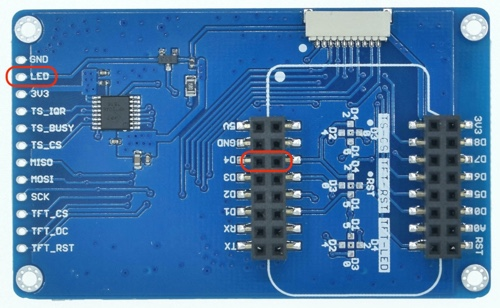
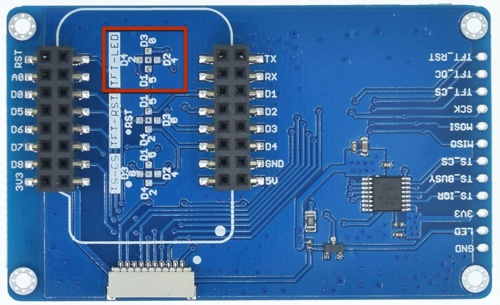
Update how dimming works

diff --git a/README.md b/README.md
@@ -104,20 +104,29 @@ This project requires an ESP8266 and a 320x240 touch screen display. It has been
 
 #### Configuring the `TFT_eSPI` library for your display
 
-`TFT_eSPI` needs to know how your display is connected to your ESP8266 including which pins are used for which signals. If you use the D1 Mini and D1 Mini TFT Shield, you can use the HW configurations supplied by this project (see below). If you use a different display, please refer to the [`TFT_eSPI`](https://github.com/Bodmer/TFT_eSPI) documentation. The library itself provides many configurations you can choose from, or you can create your own custom configuration.
+`TFT_eSPI` needs to know how your display is connected to your ESP8266 including which pins are used for which signals. If you use the D1 Mini and D1 Mini TFT Shield, you can use the HW configuration supplied by this project (see below). If you use a display such as [this one](https://www.amazon.com/gp/product/B073R7BH1B), you can use the second configuration mentioned below. This display has a single 14-pin header that can be conveniently attached to the D1 Mini using this [daughter board](https://oshpark.com/shared_projects/dopTFnBT).
 
-To configure for the D1 Mini TFT Shield, just copy the two files listed below into the `TFT_eSPI` directory:
+If you use a different display, please refer to the [`TFT_eSPI`](https://github.com/Bodmer/TFT_eSPI) documentation. The library itself provides many configurations you can choose from, or you can create your own custom configuration.
 
-* `MultiMon/resources/TFT_eSPI/User_Setup_Select.h` -> `library/TFT_eSPI` 
+To configure for the D1 Mini TFT Shield or the other display mentioned above, just copy the files listed below into the `TFT_eSPI` directory and uncomment the corresponding line in `User_Setup_Select.h`. By default it assumes the 2.4" TFT Shield.
+
+* `MultiMon/resources/TFT_eSPI/User_Setup_Select.h` &rarr; `library/TFT_eSPI` 
 	+ *Note*: This will overwrite the file in the destination, so you may wish to save the original.
-* `MultiMon/resources/TFT_eSPI/User_Setups/D1Mini_ILI9341.h`  -> `library/TFT_eSPI/User_Setups/D1Mini_ILI9341.h`
+* `MultiMon/resources/TFT_eSPI/User_Setups/D1Mini_ILI9341.h`  &rarr; `library/TFT_eSPI/User_Setups/D1Mini_ILI9341.h`
+* `MultiMon/resources/TFT_eSPI/User_Setups/D1_DB_Mini_ILI9341.h`  &rarr; `library/TFT_eSPI/User_Setups/D1_DB_Mini_ILI9341.h`
+
 
 #### Enabling brightness control
 
-Many displays allow you to control their brightness. *MultiMon* takes advantage of this by providing an analog output on pin D4 which is proportional to the brightness to be displayed. Identify the input on your display which controls brightness, and connect pin D4 to it. The images below show how this is done for the D1 Mini and TFT Shield. See the areas highlighted in red in the first image below.
+Many displays allow you to control their brightness. *MultiMon* takes advantage of this by providing an analog output which is proportional to the desired display brightness. The output pin to be used is specified in the `TFT_eSPI` configuration file and is named TFT_LED. 
 
+Identify the input on your display which controls brightness, and connect the specified pin to it. This is particularly easy for the D1 Mini and TFT Shield. As shown in the images below, it provides a spot to make a solder bridge that connects the brightness input to pin D4 of the D1 Mini.
+
+The first image shows the back side of the TFT Shield and the jumper area is marked in red.
 ![](doc/images/TFTBackSide.jpg)
-![](doc/images/BrightnessWire.jpg)
+
+In this image you can see the area in red from the previous image with the solder bridge applied.
+![](doc/images/D4Bridge.jpg)
 
 <a name="enclosure"></a>
 ### Enclosure
